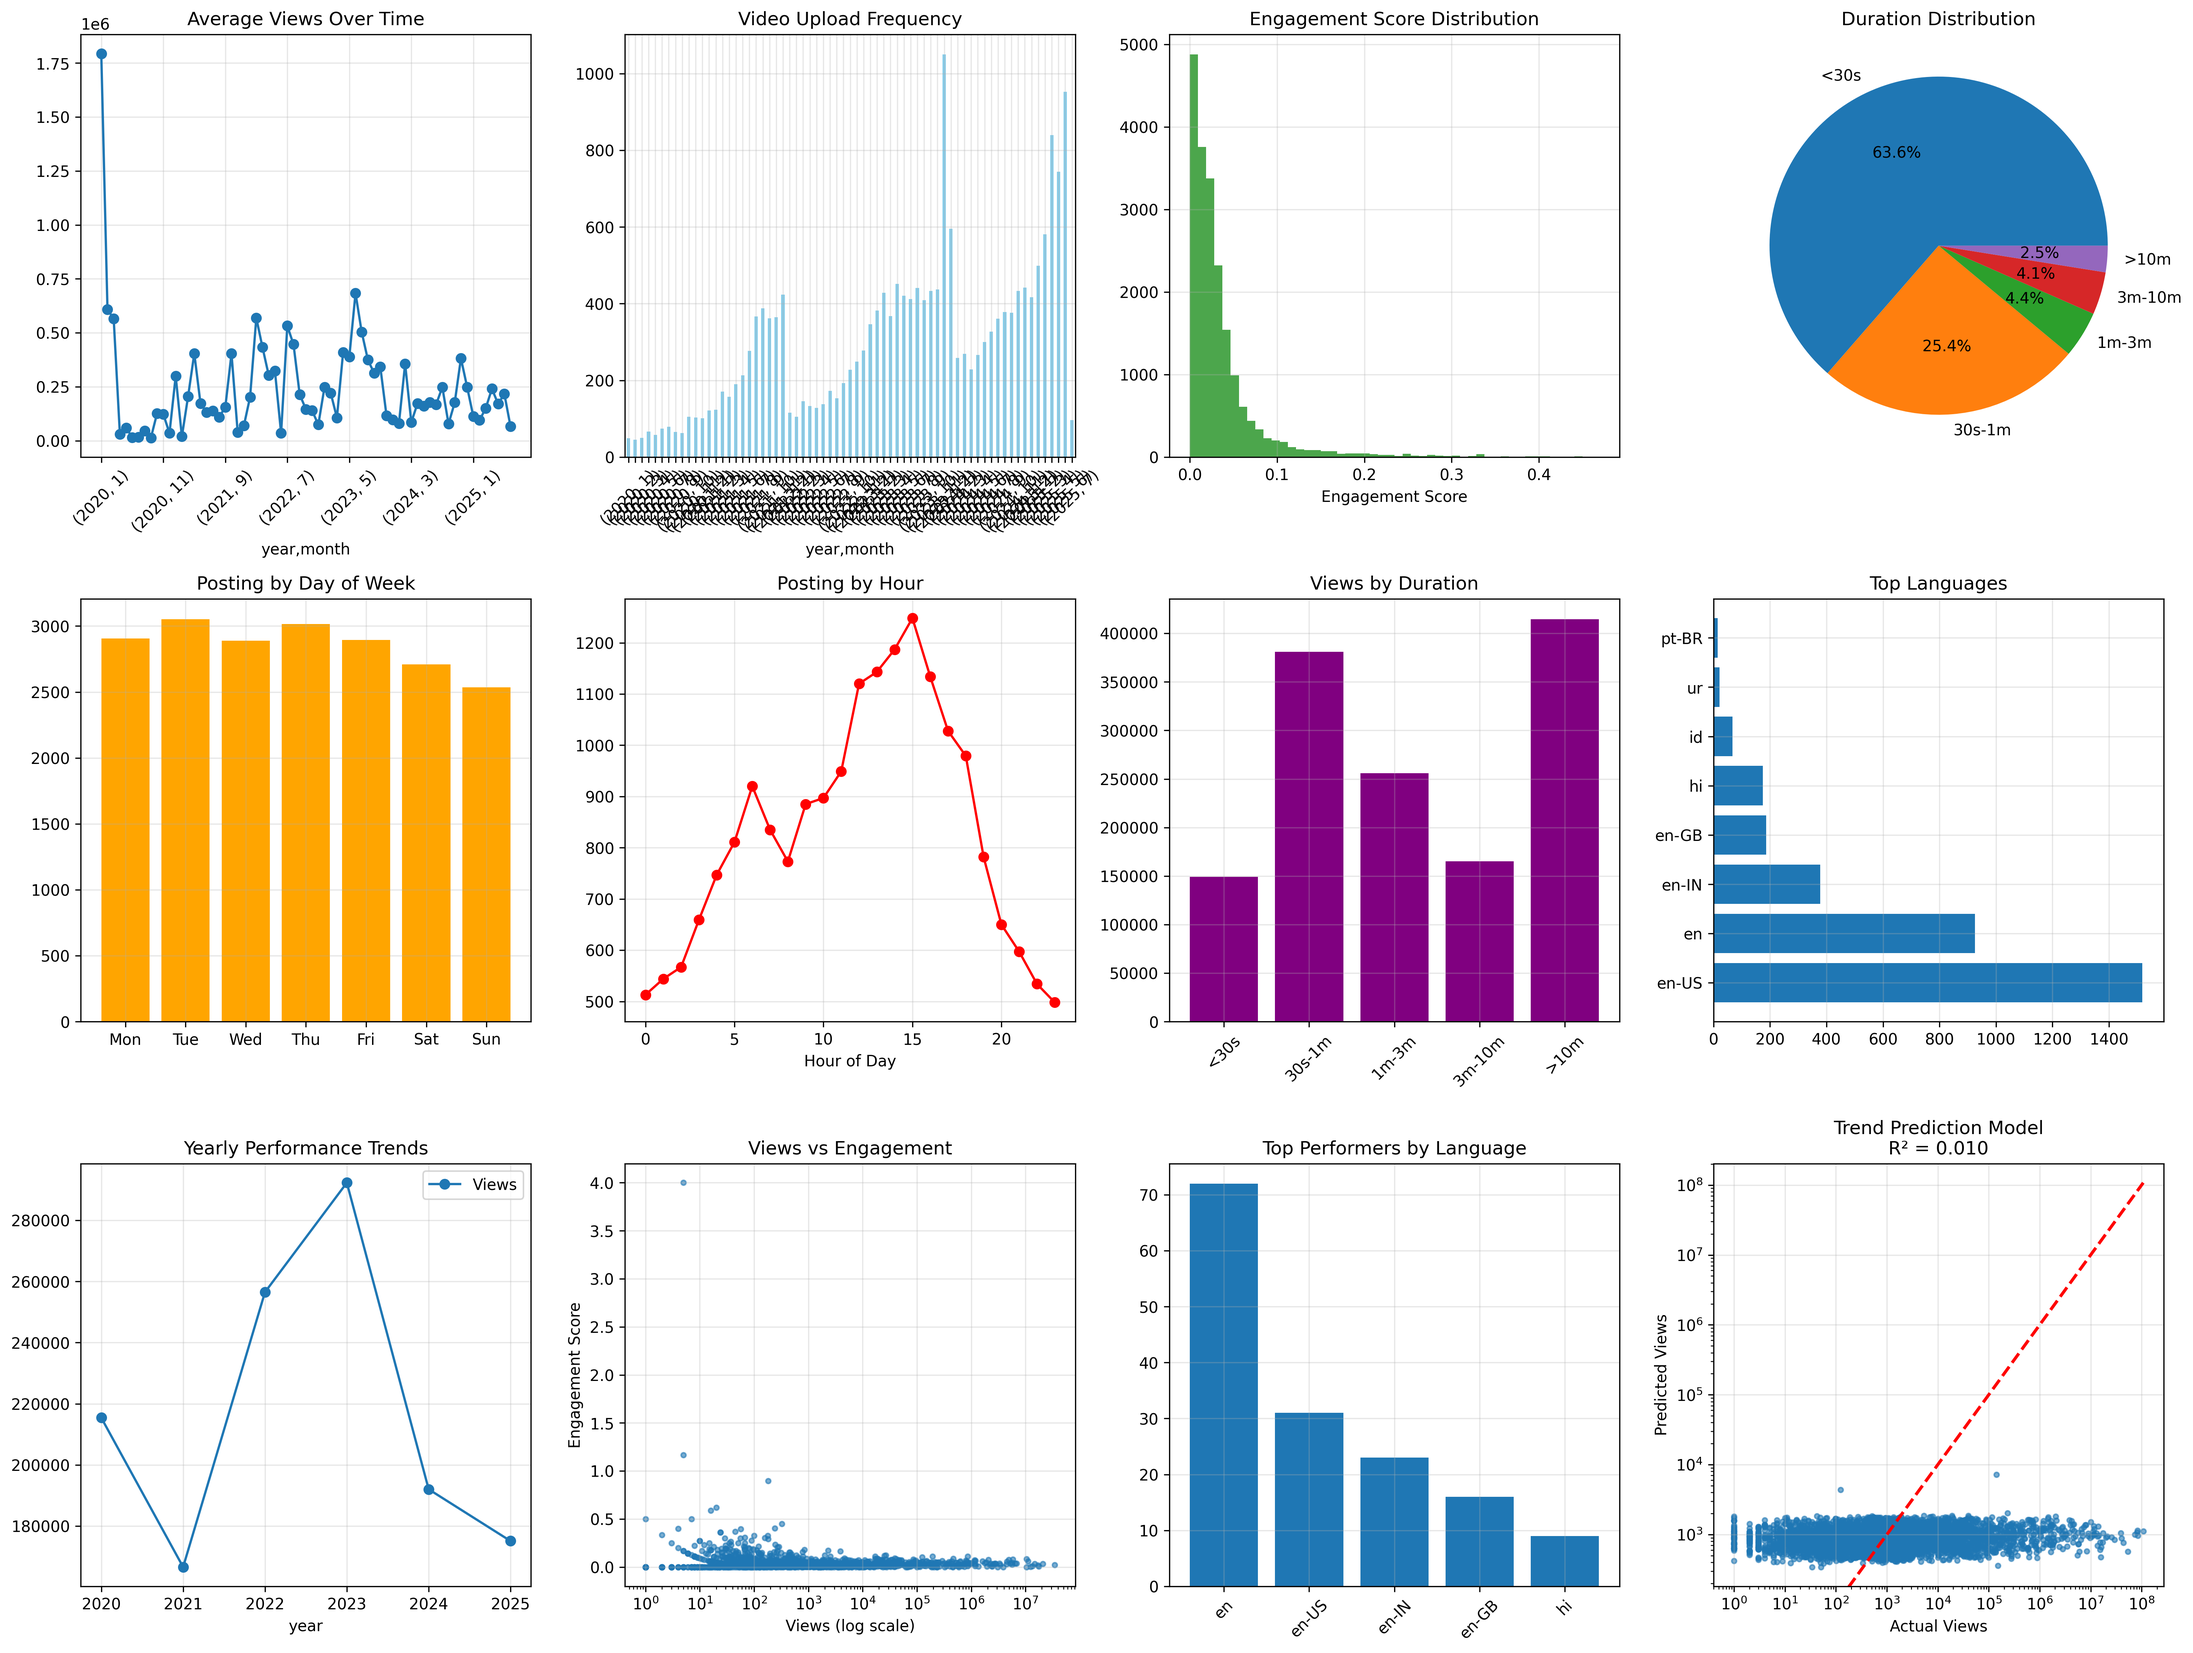
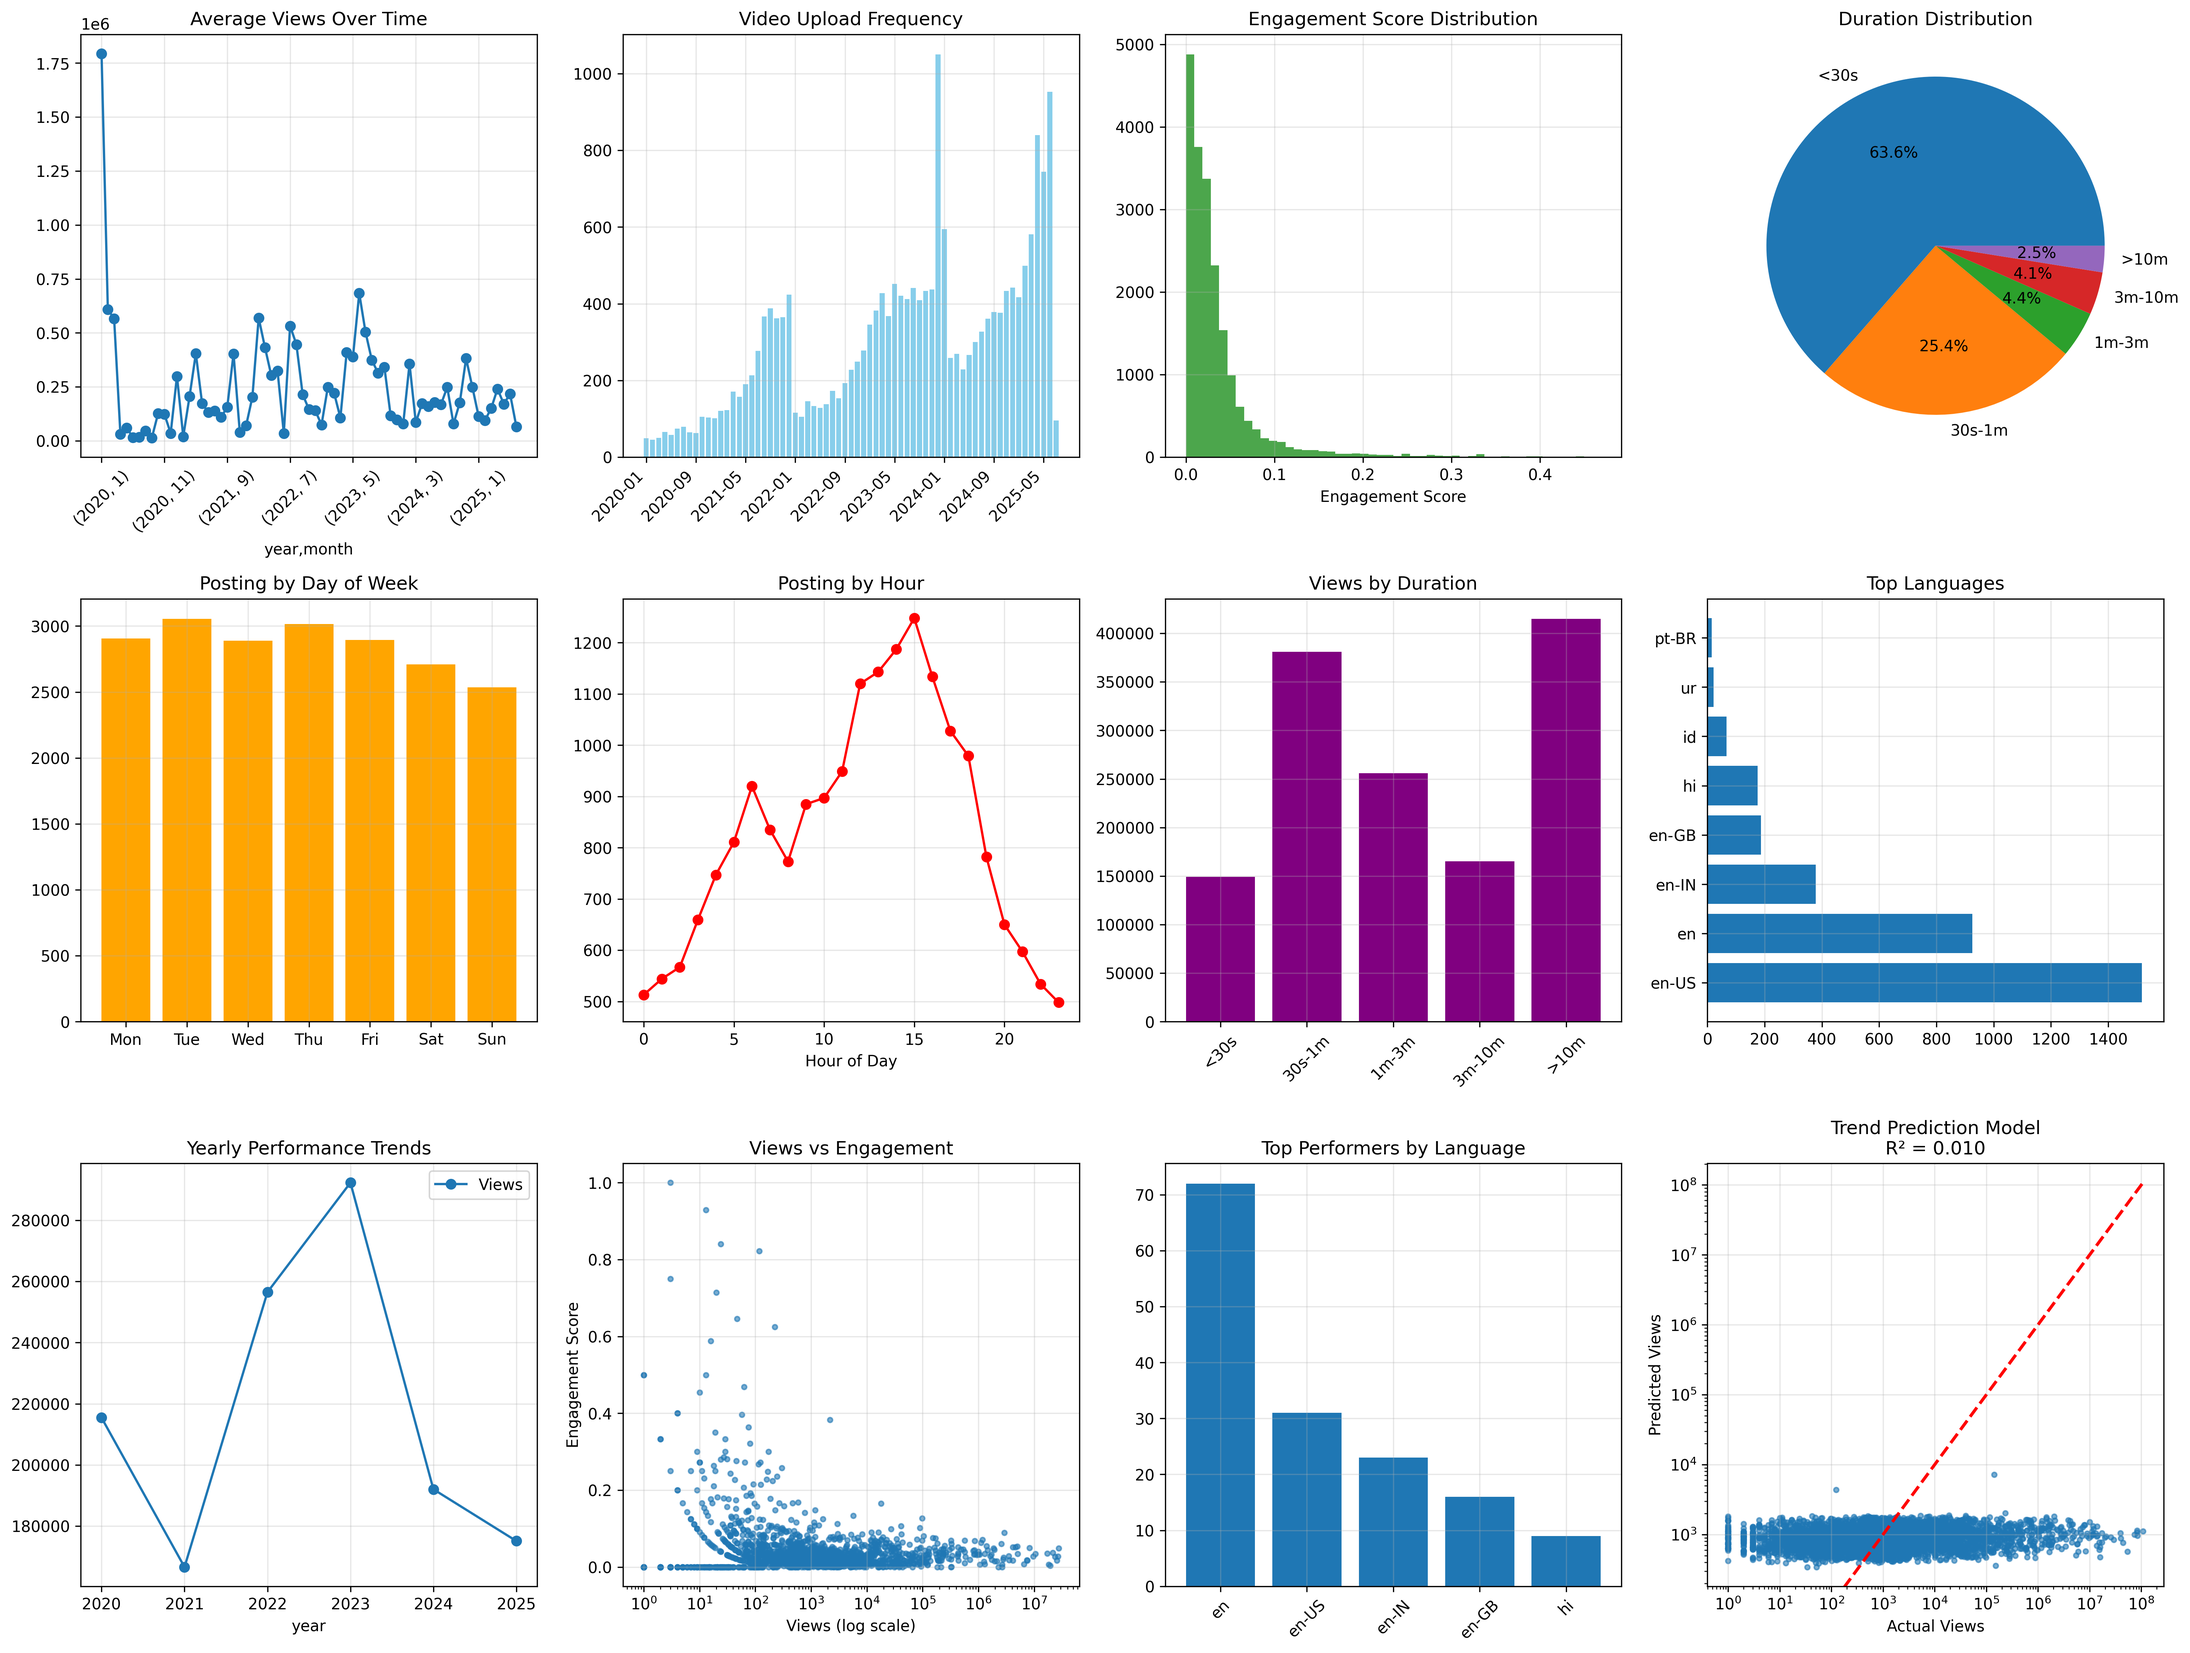
Fixed x-axis title for Upload Frequency Trend Analysis

diff --git a/simplified_analysis.py b/simplified_analysis.py
@@ -118,9 +118,19 @@ def simplified_trend_analysis():
     # 2. Upload frequency
     plt.subplot(3, 4, 2)
     upload_counts = df_sample.groupby(['year', 'month']).size()
-    upload_counts.plot(kind='bar', color='skyblue')
+    # upload_counts.plot(kind='bar', color='skyblue')
+    # plt.title('Video Upload Frequency')
+    # plt.xticks(rotation=45)
+    # plt.grid(True, alpha=0.3)
+    # Create proper date labels for x-axis
+    date_labels = [f"{year}-{month:02d}" for year, month in upload_counts.index]
+    plt.bar(range(len(upload_counts)), upload_counts.values, color='skyblue')
     plt.title('Video Upload Frequency')
-    plt.xticks(rotation=45)
+    # Show only every 3rd label to prevent overcrowding
+    step = max(1, len(date_labels) // 8)  # Show ~8 labels max
+    plt.xticks(range(0, len(date_labels), step), 
+            [date_labels[i] for i in range(0, len(date_labels), step)], 
+            rotation=45, ha='right')
     plt.grid(True, alpha=0.3)
     
     # 3. Engagement distribution
